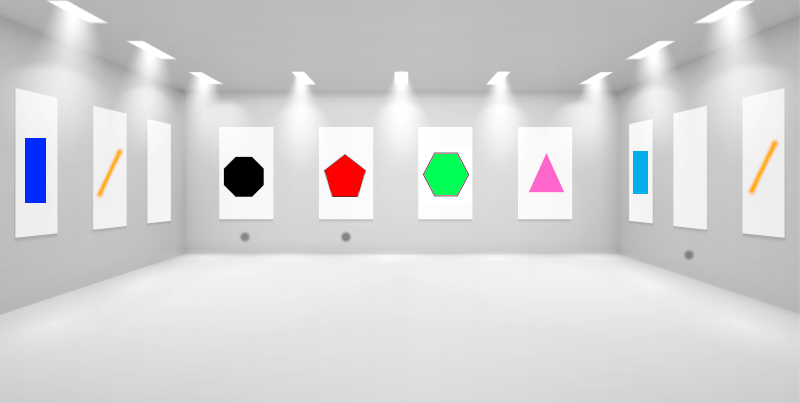
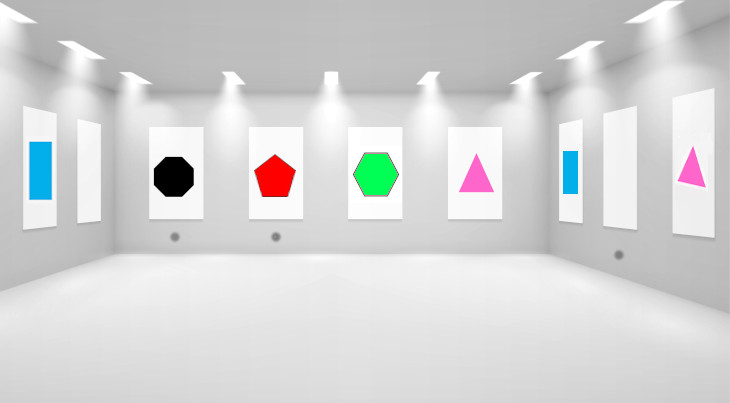
simplify poligon puzzle

diff --git a/src/config/game-config.js b/src/config/game-config.js
@@ -14,7 +14,7 @@ export default {
   codes: [
     '0000', //to test
     'SPIG', //Qs and Os
-    '563402208', // poligonos cuadros
+    '563403408', // poligonos cuadros
     '5703681924', // Tiburon
     'C4QN8', //cuadros archiduque
     '14396', //LEARN - Disney
